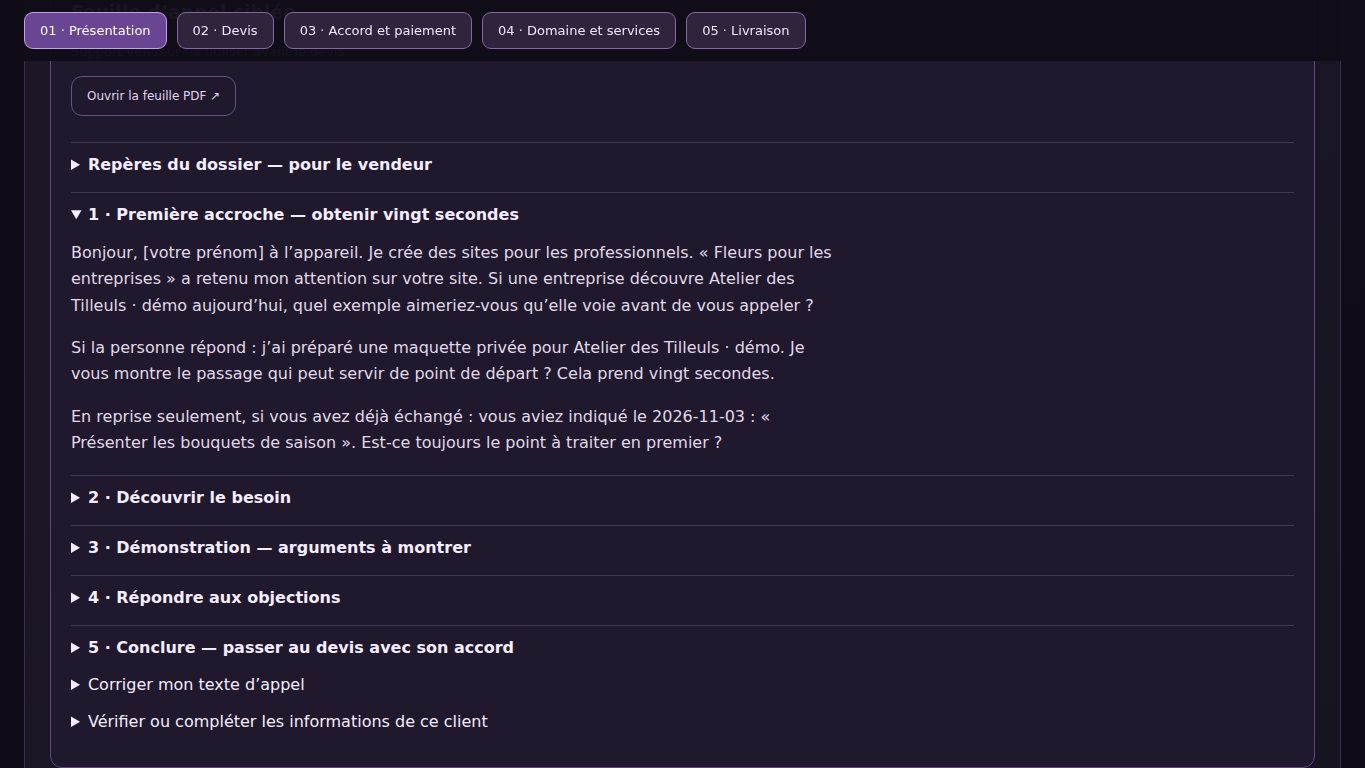
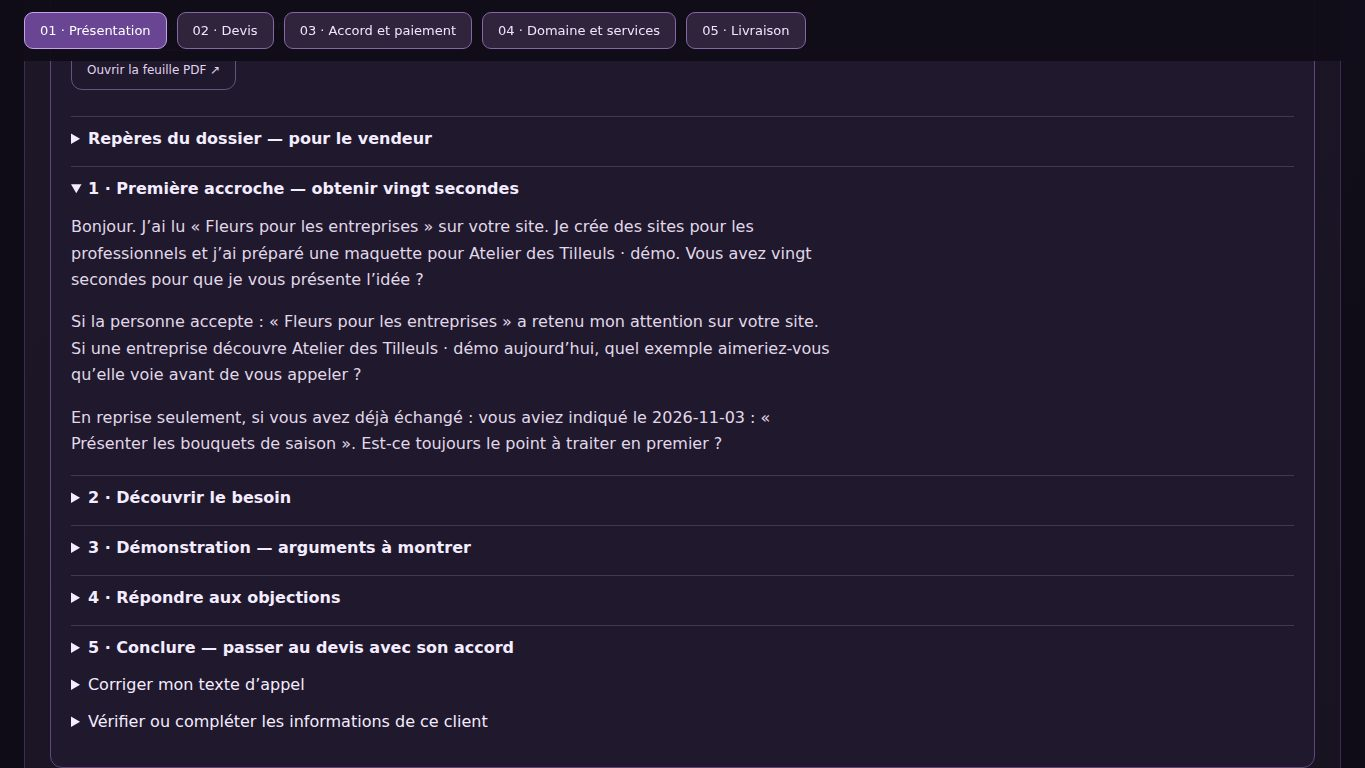
Accroche orale courte sans placeholder et recette actualisée

Changed region(s): [[0.0308, 0.0625, 0.6154, 0.5], [0.0615, 0.5312, 0.5538, 0.5938]]

diff --git a/local_app/web_call_sheet.py b/local_app/web_call_sheet.py
@@ -58,7 +58,7 @@ def _internal_link(page,name,pages):
 def _first_call(desk,facts,goal,refs):
     company=desk["business"]
     angle=desk.get("angle")
-    introduction="Bonjour, [votre prénom] à l’appareil. Je crée des sites pour les professionnels."
+    introduction="Bonjour. Je crée des sites pour les professionnels."
     if angle:
         fresh=(date.today()-date.fromisoformat(angle["day"])).days<=90
         refs.append(f"Intitulé public retenu par le vendeur le {angle['day']} : « {angle['heading']} » — {angle['url']}.")
@@ -78,8 +78,8 @@ def _first_call(desk,facts,goal,refs):
                 lead=f"J’ai une question à propos de « {topic} », que j’ai lu sur votre site : qu’aimeriez-vous savoir d’un client avant de lui chiffrer une demande ?"
             else:
                 lead=f"En regardant votre site, je me suis arrêté sur « {topic} ». Est-ce l’offre que vous aimeriez mettre en avant, ou y en a-t-il une plus importante aujourd’hui ?"
-            return [introduction+" "+lead,
-                    f"Si la personne répond : j’ai préparé une maquette privée pour {company}. Je vous montre le passage qui peut servir de point de départ ? Cela prend vingt secondes."]
+            return [f"Bonjour. J’ai lu « {topic} » sur votre site. Je crée des sites pour les professionnels et j’ai préparé une maquette pour {company}. Vous avez vingt secondes pour que je vous présente l’idée ?",
+                    "Si la personne accepte : "+lead]
         refs.append("Observation de plus de 90 jours : relire la page avant de réutiliser cet intitulé en ouverture.")
     if desk["website"]:
         try: host=urlsplit(desk["website"]).hostname

diff --git a/tests/test_sales_autopilot.py b/tests/test_sales_autopilot.py
@@ -220,7 +220,7 @@ class SalesTests(TestCase):
         def first(heading):
             d=server._sales_dossier(self.pid,{"action":"select_angle","heading":heading,"confirmed":True})
             self.assertIn(d["public_page"]["url"],str(d["call_sheet"][0]))
-            return d["call_sheet"][1][1][0]
+            return " ".join(d["call_sheet"][1][1])
         self.assertIn("Si une entreprise découvre",first("Fleurs pour les entreprises"))
         self.assertIn("s’engager dans la durée",first("Abonnements floraux"))
         manual=server._sales_dossier(self.pid,{"action":"clear_angle"})
